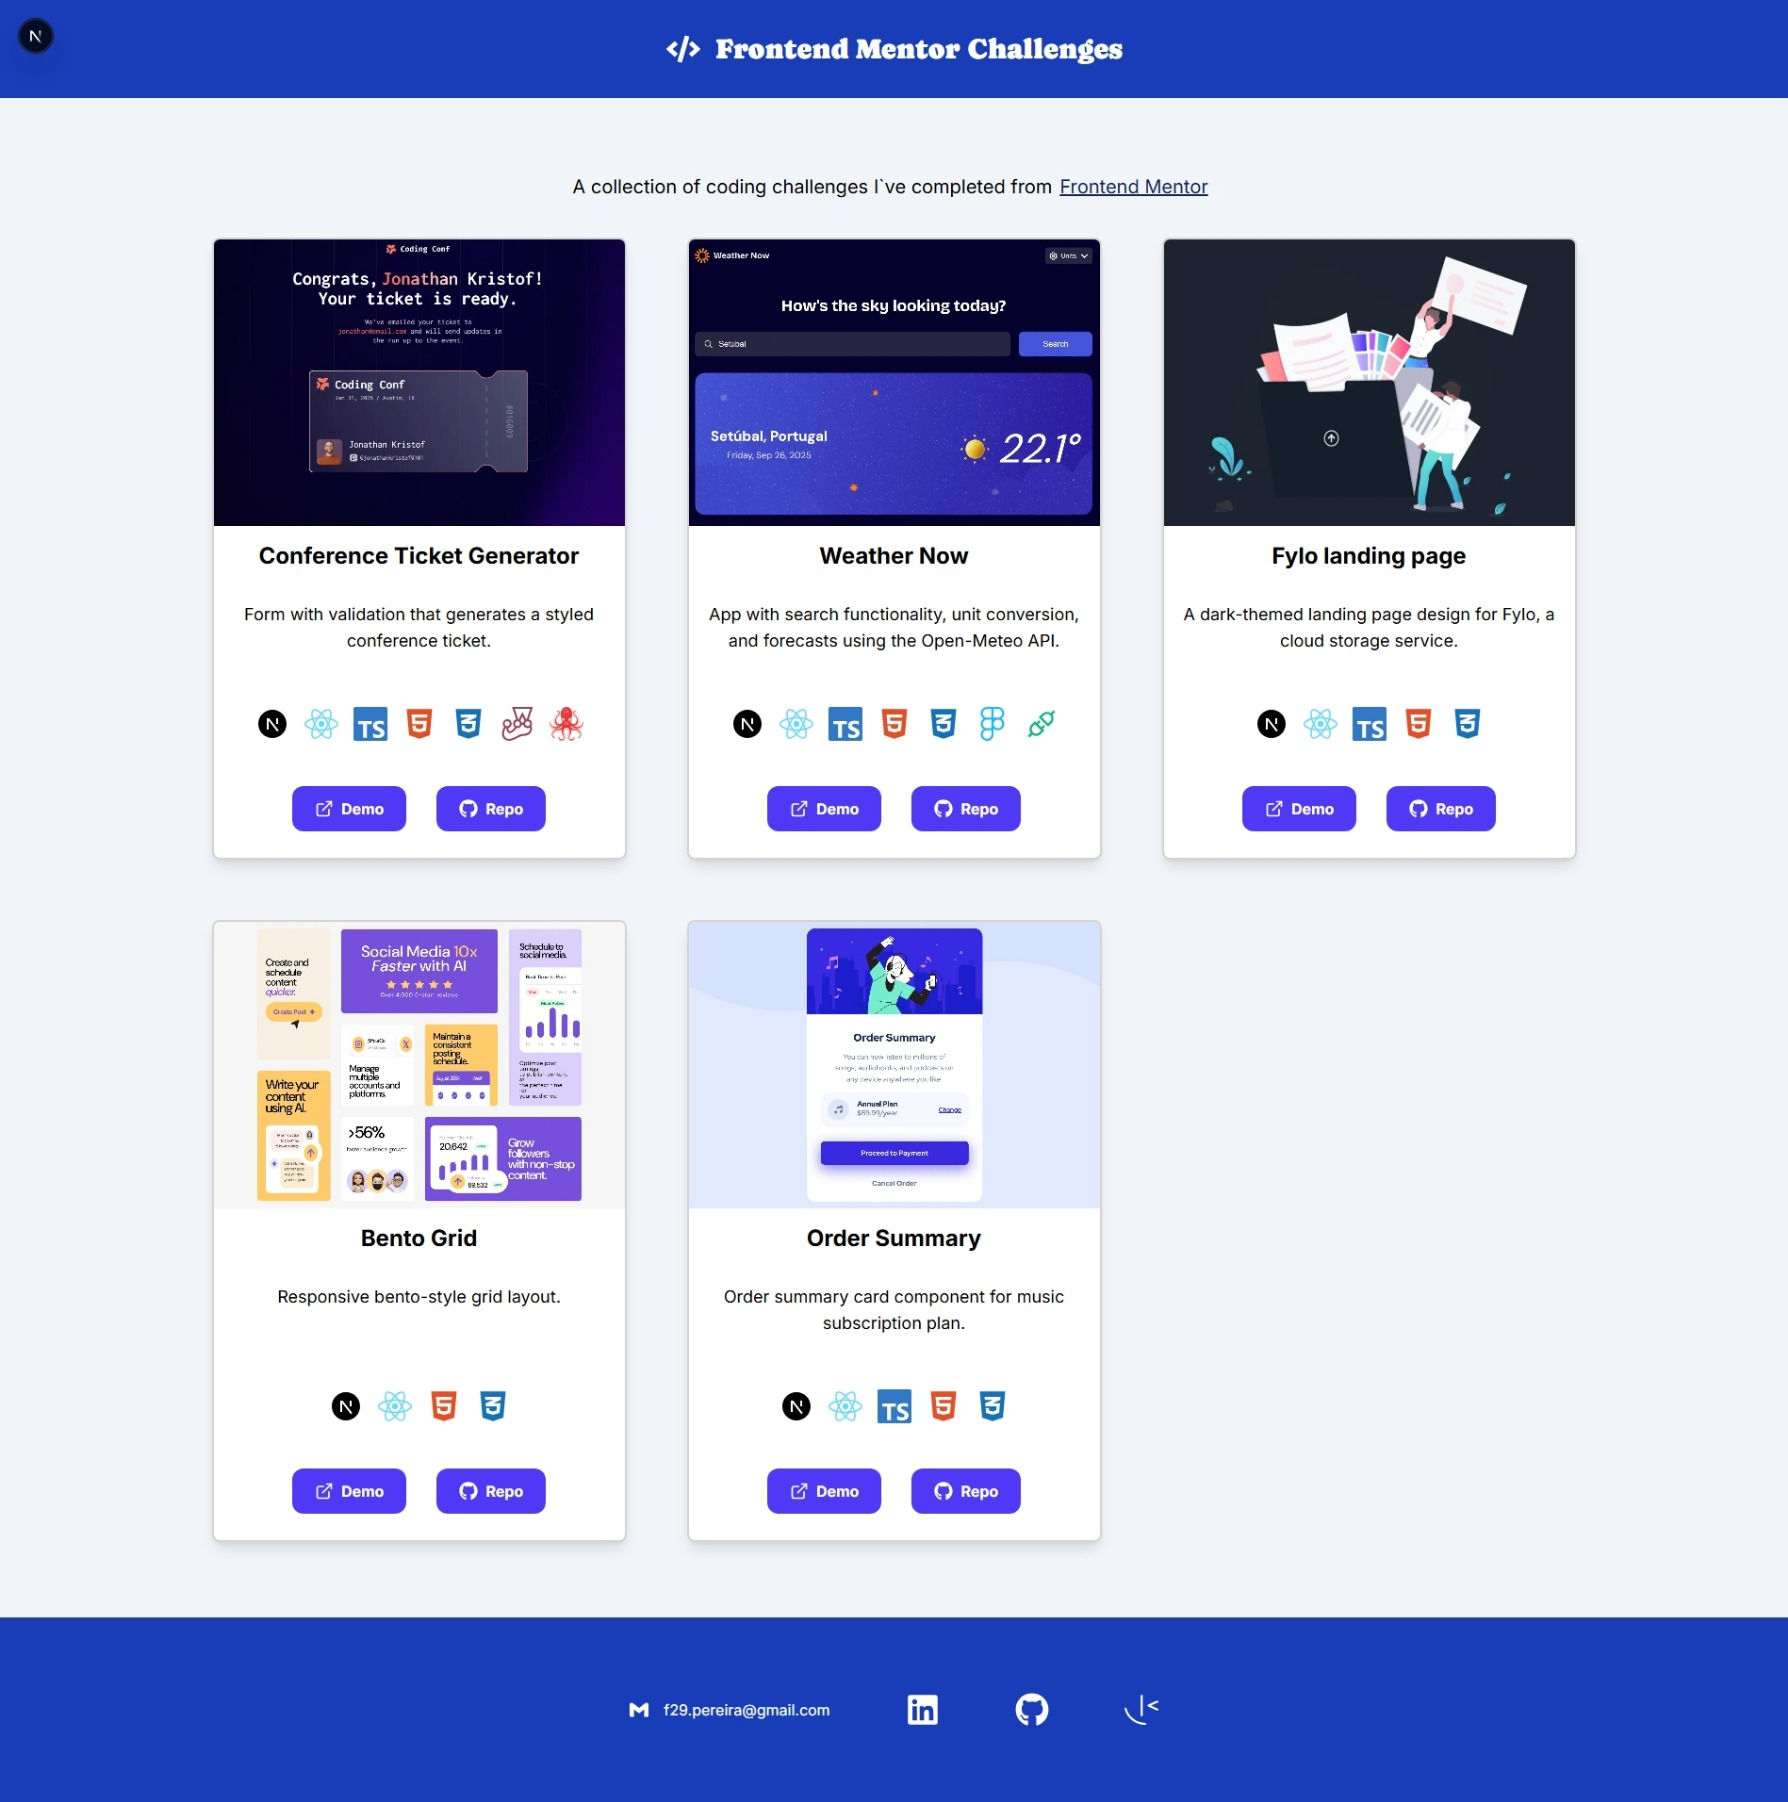
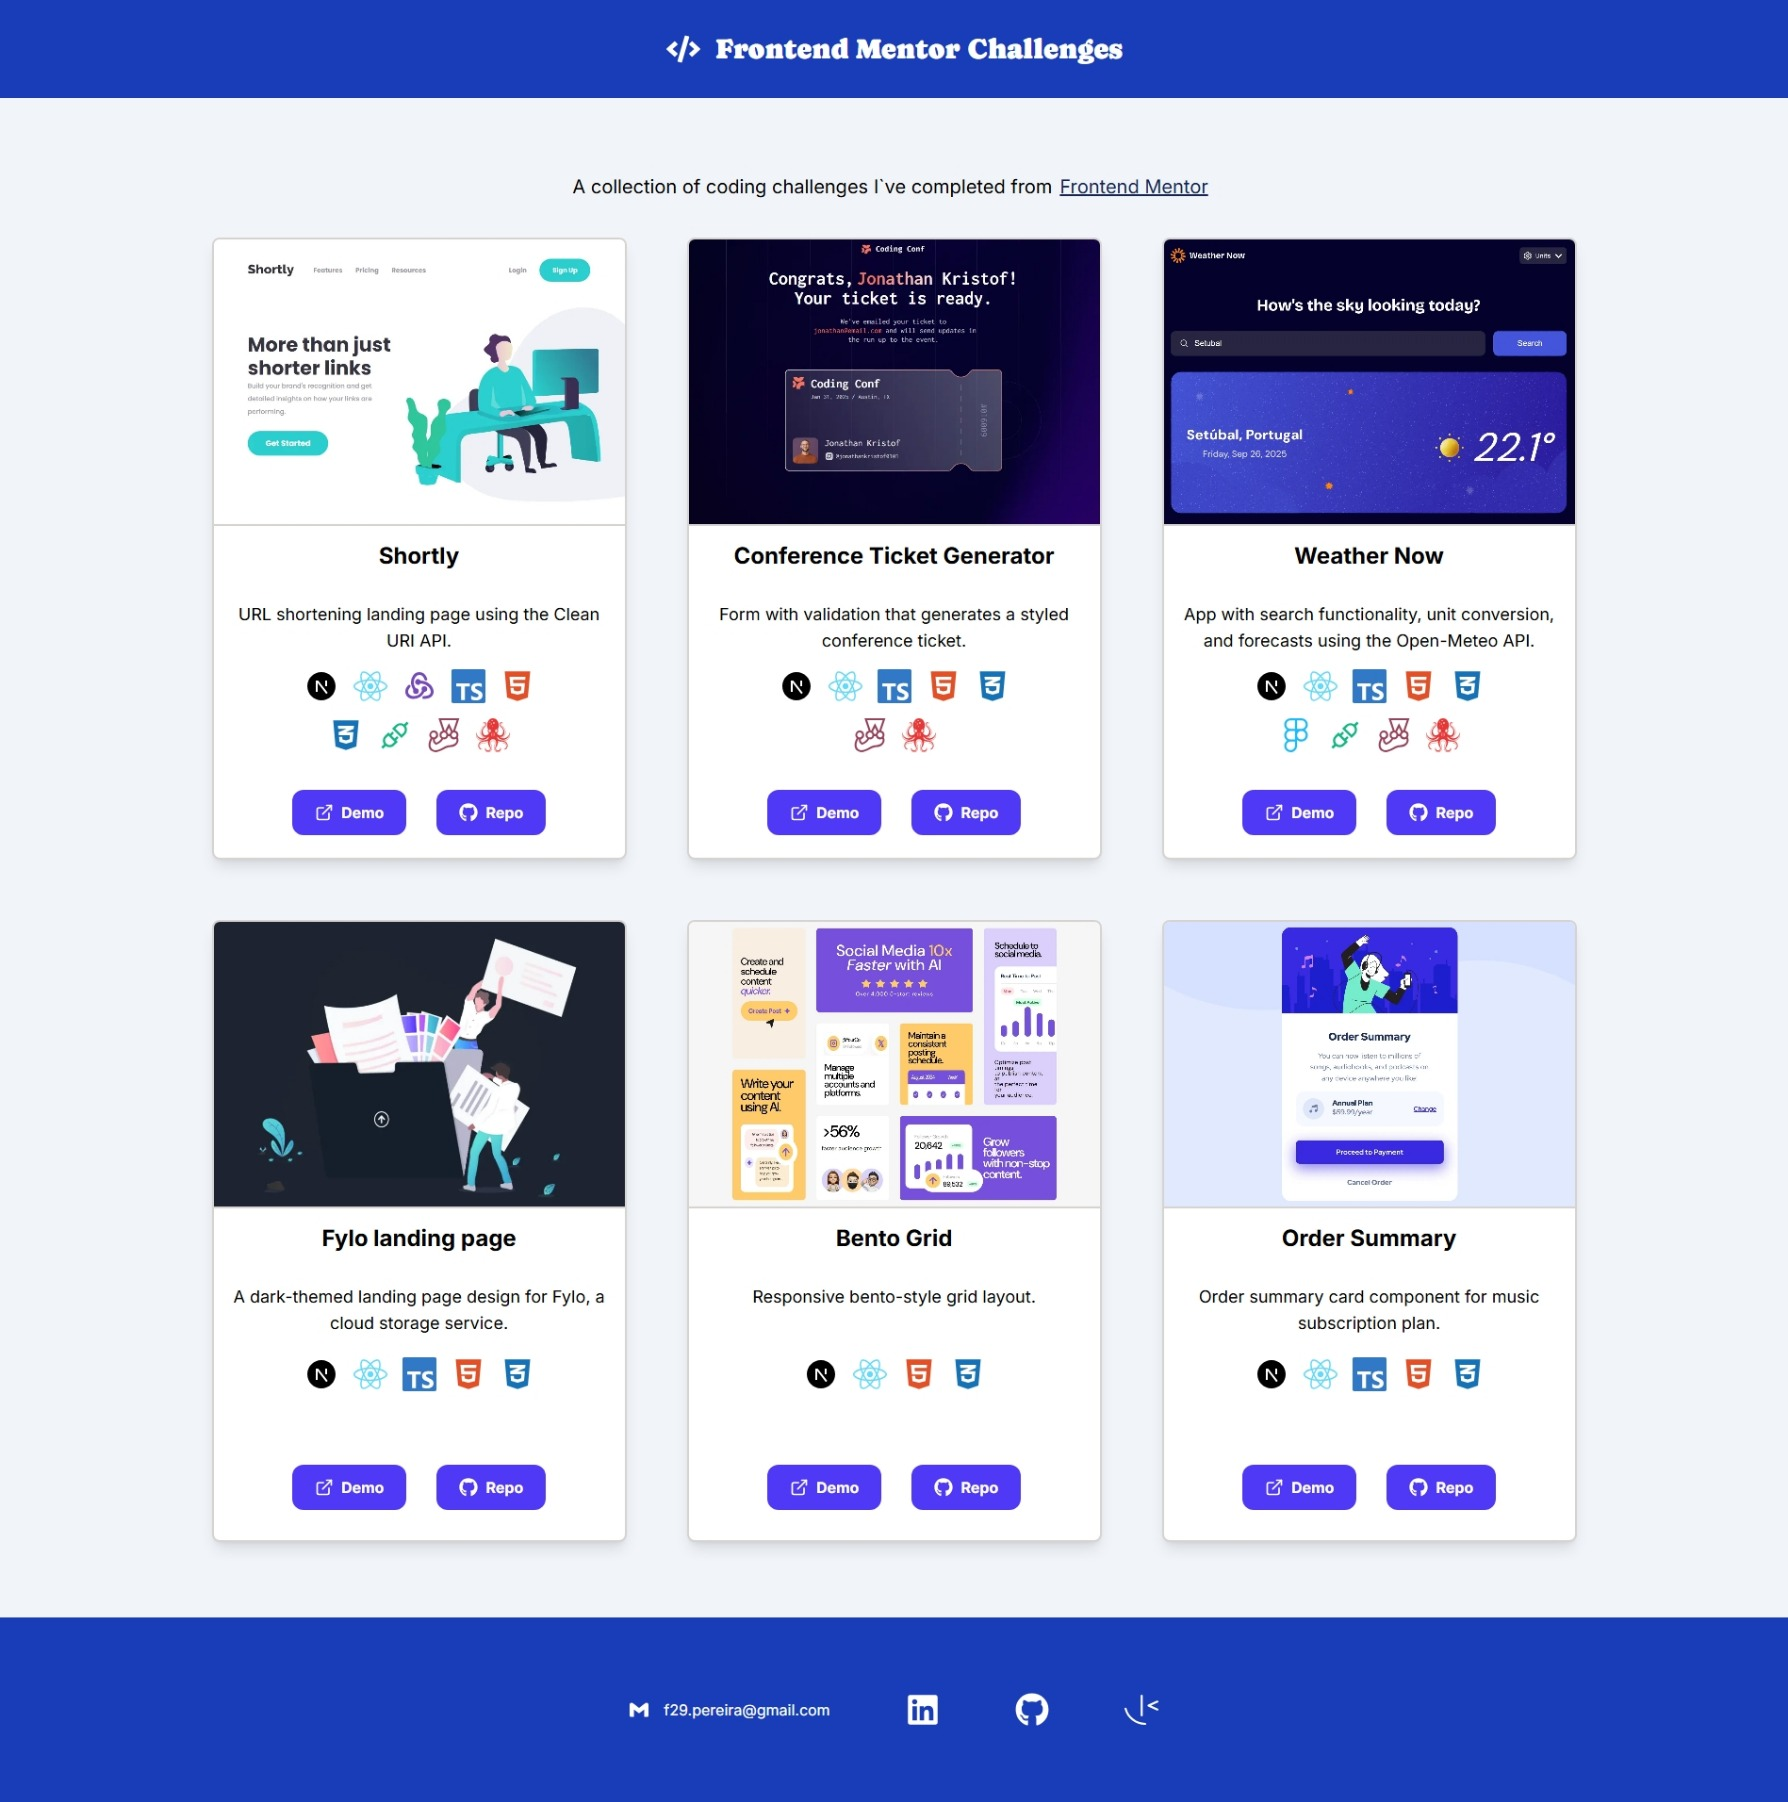
Update README file
- Remove duplicated challenge images
- Add shortly challenge image

diff --git a/README.md b/README.md
@@ -10,6 +10,12 @@ This is a collection of coding challenges I’ve completed from [Frontend Mentor
 
 - [Overview](#overview)
 - [The Challenges](#the-challenges)
+  - [Shortly](#shortly)
+  - [Conference Ticket Generator](#conference-ticket-generator)
+  - [Weather Now](#weather-now)
+  - [Fylo](#fylo)
+  - [Bento Grid](#bento-grid)
+  - [Order Summary](#order-summary)
 - [Technologies](#technologies)
 - [Author](#author)
 
@@ -24,6 +30,16 @@ In these challenges, I focused on:
 
 ## The challenges
 
+### Shortly
+
+A responsive URL shortening landing page using the [Clean URI API](https://cleanuri.com/docs).
+
+![shortly challenge](public/images/readme/shortly.png)
+
+**Technologies used:** Next.js, React, Redux Toolkit, React and Redux Developer Tools, TypeScript, HTML, CSS, Jest and React testing library
+
+🔗 [Live Demo](https://f29pereira.github.io/shortly/) | 📂 [Code](https://github.com/f29pereira/shortly)
+
 ### Conference Ticket Generator
 
 A responsive web form with validation (required fields, image type and size, name, email, and GitHub username format) that generates a conference ticket upon successful submission.
@@ -36,7 +52,7 @@ A responsive web form with validation (required fields, image type and size, nam
 
 ![conference ticket generator ticket](public/images/readme/conferenceTicket/ticket.png)
 
-**Technologies used:** Next.js, React, TypeScript, HTML, CSS, Jest and React testing library
+**Technologies used:** Next.js, React, React Developer Tools, TypeScript, HTML, CSS, Jest and React testing library
 
 🔗 [Live Demo](https://f29pereira.github.io/conference-ticket-generator/) | 📂 [Code](https://github.com/f29pereira/conference-ticket-generator)
 
@@ -46,7 +62,7 @@ A responsive weather app with search functionality, unit conversion, and detaile
 
 ![weather now challenge](public/images/readme/weather_now.png)
 
-**Technologies used:** Next.js, React, TypeScript, HTML, CSS, and Open-Meteo API
+**Technologies used:** Next.js, React, React Developer Tools, TypeScript, HTML, CSS, and Open-Meteo API
 
 🔗 [Live Demo](https://f29pereira.github.io/weather-app/) | 📂 [Code](https://github.com/f29pereira/weather-app)
 
@@ -83,10 +99,11 @@ An order summary card component for a music subscription plan.
 ## Technologies
 
 - **Frameworks:** Next.js
-- **Libraries:** React
+- **Testing Frameworks:** Jest
+- **Libraries:** React, Redux Toolkit, React Testing Library
 - **Languages:** TypeScript, HTML, CSS
-- **APIs:** Open-Meteo API
-- **Tools:** Git, GitHub, VS Code
+- **APIs:** Open-Meteo API, Cleanuri API
+- **Tools:** Git, GitHub, VS Code, React and Redux Developer Tools
 
 ## Author
 
